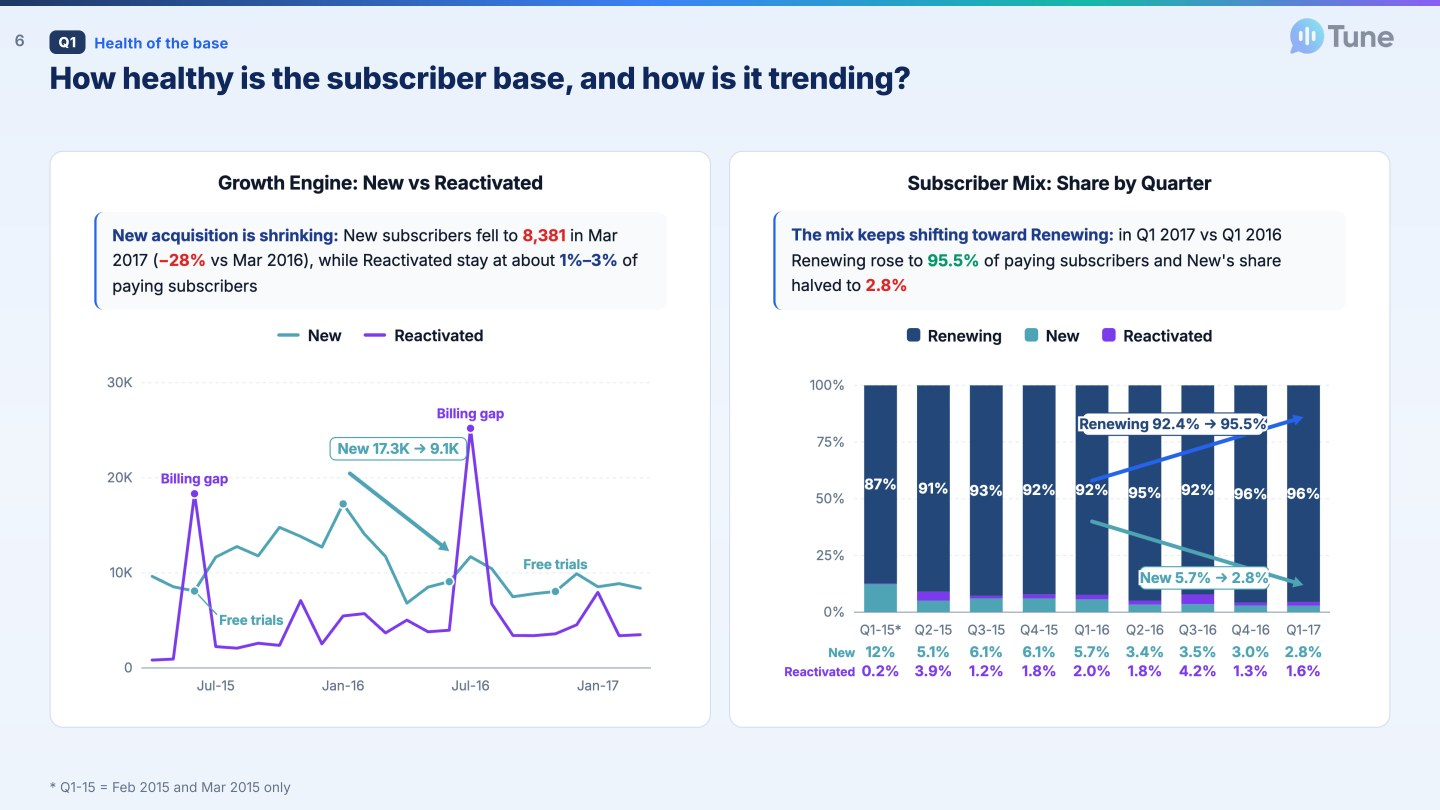
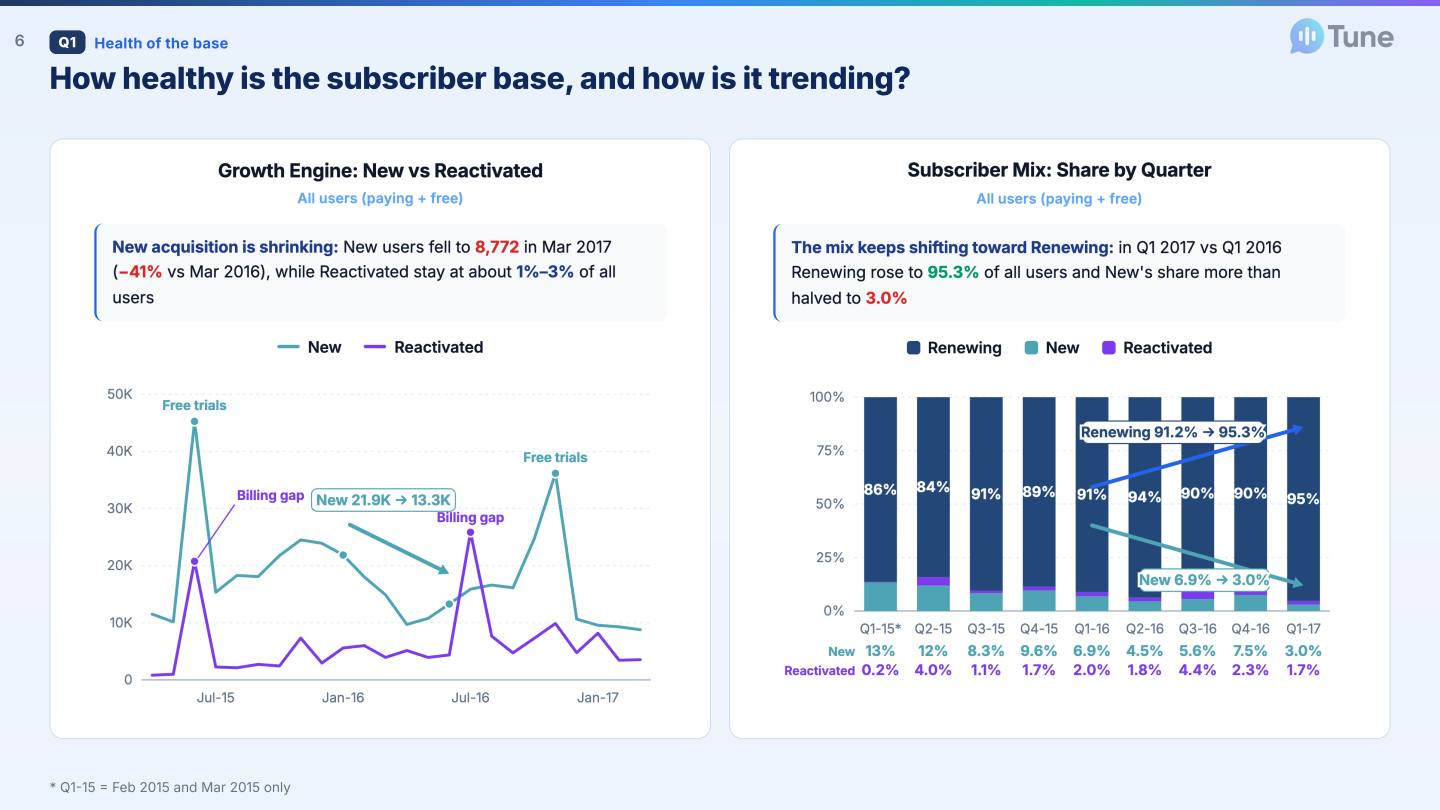
Growth Engine and Subscriber Mix count all users (paying + free); paying-only charts on 2.2 and Q1 say so under the title

diff --git a/index.html b/index.html
@@ -870,32 +870,32 @@ main{--v-rev:#e9d5ff;--v-rev-ink:#9333ea}
     </div>
 
     <div class="card v3-card">
-      <h2>Subscriber Mix: Share by Quarter</h2>
-      <p class="v3-c ok"><b>The mix keeps shifting toward Renewing:</b> Renewing was <b class="chg-good">95.5%</b> of paying subscribers in Q1 2017, up from 92.4% in Q1 2016, while New's share halved from <b class="chg-bad">5.7%</b> to <b class="chg-bad">2.8%</b></p>
+      <h2>Subscriber Mix: Share by Quarter<span class="scope-tag">All users (paying + free)</span></h2>
+      <p class="v3-c ok"><b>The mix keeps shifting toward Renewing:</b> Renewing was <b class="chg-good">95.3%</b> of all users in Q1 2017, up from 91.2% in Q1 2016, while New's share more than halved from <b class="chg-bad">6.9%</b> to <b class="chg-bad">3.0%</b></p>
       <div class="vz-lg p22-lg"><span><i style="--c:var(--p22-ren)"></i>Renewing</span><span><i style="--c:var(--p22-new)"></i>New</span><span><i style="--c:var(--p22-rea)"></i>Reactivated</span></div>
       <div class="vz" id="p22-q"></div>
-      <div class="v3-foot"><details class="coh-how fn"><summary><span class="fn-p">+</span> *Q1-15 = Feb 2015 and Mar 2015 only</summary><div class="fn-in">Share of paying subscribers in the quarter · numbers above columns: New and Reactivated, in their colors · *Q1-15 = Feb 2015 and Mar 2015 only (files start 01/01/15, so in Jan 2015 everyone is New)</div></details></div>
+      <div class="v3-foot"><details class="coh-how fn"><summary><span class="fn-p">+</span> *Q1-15 = Feb 2015 and Mar 2015 only</summary><div class="fn-in">Share of all users with access in the quarter, paying or free trial · numbers above columns: New and Reactivated, in their colors · *Q1-15 = Feb 2015 and Mar 2015 only (files start 01/01/15, so in Jan 2015 everyone is New)</div></details></div>
     </div>
 
 
     <div class="p22-two">
       <div class="card v3-card">
-        <h2>Retention Base: Total vs Renewing</h2>
+        <h2>Retention Base: Total vs Renewing<span class="scope-tag">Paying subscribers only</span></h2>
         <p class="v3-c ok"><b>Core retention scales steadily:</b> Renewing tracks Total paying up to <b class="chg-good">291,502</b> in Mar 2017 (<b class="chg-good">+21%</b> vs Mar 2016)</p>
         <div class="vz-lg p22-lg"><span><i class="ln dash" style="--c:var(--p22-tot)"></i>Total paying</span><span><i class="ln thick" style="--c:var(--p22-ren)"></i>Renewing</span></div>
         <div class="vz" id="p22-l1"></div>
       </div>
       <div class="card v3-card">
-        <h2>Growth Engine: New vs Reactivated</h2>
-        <p class="v3-c warn"><b>New acquisition is shrinking:</b> New subscribers fell to <b class="chg-bad">8,381</b> in Mar 2017 (<b class="chg-bad">−28%</b> vs Mar 2016), while Reactivated subscribers stay at about <b class="chg-flat">1%–3%</b> of paying subscribers from Jul 2015 on, except for the Jul 2016 billing-gap spike</p>
+        <h2>Growth Engine: New vs Reactivated<span class="scope-tag">All users (paying + free)</span></h2>
+        <p class="v3-c warn"><b>New acquisition is shrinking:</b> New users fell to <b class="chg-bad">8,772</b> in Mar 2017 (<b class="chg-bad">−41%</b> vs Mar 2016), while Reactivated users stay at about <b class="chg-flat">1%–3%</b> of all users from Jul 2015 on, except for the Jul 2016 billing-gap spike</p>
         <div class="vz-lg p22-lg"><span><i class="ln thick" style="--c:var(--p22-new)"></i>New</span><span><i class="ln thick" style="--c:var(--p22-rea)"></i>Reactivated</span></div>
         <div class="vz" id="p22-l2"></div>
         <p class="v3-foot">Own scale, so the small groups stay readable</p>
         <ul class="vz-flg">
-          <li><button class="flg-go" data-flag="p25-r-0415" style="color:var(--p22-rea)">⚑ Jun 2015 Billing gap</button>: 18,326 Reactivated</li>
-          <li><button class="flg-go" data-flag="p25-r-0316" style="color:var(--p22-rea)">⚑ Jul 2016 Billing gap</button>: 25,205 Reactivated</li>
-          <li><button class="flg-go" data-flag="p25-r-trial" style="color:var(--p22-new)">⚑ Jun 2015 Free-trial wave</button>: New subscribers did not rise (8,089 vs 8,543 in May 2015)</li>
-          <li><button class="flg-go" data-flag="p25-r-trial" style="color:var(--p22-new)">⚑ Nov 2016 Free-trial wave</button>: New subscribers stayed flat (8,046 vs 7,806 in Oct 2016)</li>
+          <li><button class="flg-go" data-flag="p25-r-0415" style="color:var(--p22-rea)">⚑ Jun 2015 Billing gap</button>: 20,768 Reactivated users</li>
+          <li><button class="flg-go" data-flag="p25-r-0316" style="color:var(--p22-rea)">⚑ Jul 2016 Billing gap</button>: 25,853 Reactivated users</li>
+          <li><button class="flg-go" data-flag="p25-r-trial" style="color:var(--p22-new)">⚑ Jun 2015 Free-trial wave</button>: 45,270 New users, only 8,089 of them paying</li>
+          <li><button class="flg-go" data-flag="p25-r-trial" style="color:var(--p22-new)">⚑ Nov 2016 Free-trial wave</button>: 36,173 New users, only 8,046 of them paying</li>
         </ul>
       </div>
     </div>
@@ -1442,18 +1442,20 @@ main{--v-rev:#e9d5ff;--v-rev-ink:#9333ea}
   }));
 
   /* ---------- 2.2 ---------- */
-  // quarterly mix from P2_DATA (same as mart_metrics_month); Q1-15 = 02-15 and 03-15 only (01-15 is the warm-up month)
+  // quarterly mix of ALL users with access (paying + free trial): fct_user_month is_active, is_new, is_reactivated; Q1-15 = 02-15 and 03-15 only (01-15 is the warm-up month)
+  // P22A: month -> [New users, Reactivated users] among all users with access; Renewing = active_any - New - Reactivated
+  const P22A = {"2015-01":[133585,0],"2015-02":[12173,164],"2015-03":[29812,591],"2015-04":[11516,832],"2015-05":[10157,977],"2015-06":[45270,20768],"2015-07":[15326,2264],"2015-08":[18278,2122],"2015-09":[18091,2725],"2015-10":[21766,2449],"2015-11":[24509,7313],"2015-12":[23915,2960],"2016-01":[21864,5594],"2016-02":[18004,6000],"2016-03":[14887,3939],"2016-04":[9700,5140],"2016-05":[10766,3945],"2016-06":[13278,4367],"2016-07":[15893,25853],"2016-08":[16611,7654],"2016-09":[16118,4728],"2016-10":[24697,7274],"2016-11":[36173,9890],"2016-12":[10652,4759],"2017-01":[9566,8176],"2017-02":[9288,3450],"2017-03":[8772,3543]};
   const QS = [];
   P2_DATA.filter((r) => r[0] >= "2015-02").forEach((r) => {
     const q = "Q" + Math.ceil(+r[0].slice(5, 7) / 3) + "-" + r[0].slice(2, 4) + (r[0] < "2015-04" ? "*" : "");
     let o = QS.find((x) => x.q === q); if (!o) QS.push((o = { q, p: 0, n: 0, r: 0, rn: 0, k: 0 }));
-    o.p += r[F.p]; o.n += r[F.n]; o.r += r[F.r]; o.rn += r[5]; o.k++;
+    const a = P22A[r[0]]; o.p += r[F.a]; o.n += a[0]; o.r += a[1]; o.rn += r[F.a] - a[0] - a[1]; o.k++;
   });
   const qRen = QS.map((o) => (100 * o.rn) / o.p), qNew = QS.map((o) => (100 * o.n) / o.p), qRea = QS.map((o) => (100 * o.r) / o.p);
   const pctL = (v) => (v < 10 ? v.toFixed(1) : v.toFixed(0)) + "%";
   const K22 = { ren: "var(--p22-ren)", nw: "var(--p22-new)", rea: "var(--p22-rea)", tot: "var(--p22-tot)" };
   mount("p22-q", (el) => chart(el, {
-    labels: QS.map((o) => o.q), H: 280, T: 50, gap: 0.62, stacked: true, aria: "Quarterly subscriber mix: Renewing, New and Reactivated as % of paying subscribers",
+    labels: QS.map((o) => o.q), H: 280, T: 50, gap: 0.62, stacked: true, aria: "Quarterly mix of all users, paying and free: Renewing, New and Reactivated as % of all users",
     y: { min: 0, max: 100, step: 25, fmt: (v) => v + "%" },
     series: [{ type: "bar", values: qRen, color: K22.ren, label: pctL, labelPos: "in" },
       { type: "bar", values: qNew, color: K22.nw, label: pctL, labelPos: "top", labelRow: 1, labelColor: K22.nw },
@@ -1461,9 +1463,9 @@ main{--v-rev:#e9d5ff;--v-rev-ink:#9333ea}
     arrows: [{ from: QS.findIndex((o) => o.q === "Q1-16"), to: QS.length - 1, v0: 76, v1: 84, color: "var(--v-mid)", ink: K22.ren, labelV: 63,
       label: "Renewing " + qRen[QS.findIndex((o) => o.q === "Q1-16")].toFixed(1) + "% → " + qRen[QS.length - 1].toFixed(1) + "%", short: "Renewing ↑" }],
     tip: (i) => `<b>${QS[i].q}</b>` + tipRow("Renewing", qRen[i].toFixed(1) + "%") + tipRow("New", qNew[i].toFixed(1) + "%") + tipRow("Reactivated", qRea[i].toFixed(1) + "%") +
-      `<div class="mute">${n0(QS[i].p / QS[i].k)} paying a month</div>`,
+      `<div class="mute">${n0(QS[i].p / QS[i].k)} users a month (paying + free)</div>`,
   }));
-  const M22 = rng("2015-04", "2017-03"), L22 = M22.map((r) => ml(r[0])), nw = col(M22, "n"), re = col(M22, "r"), pay = col(M22, "p"), ren = M22.map((r) => r[5]);
+  const M22 = rng("2015-04", "2017-03"), L22 = M22.map((r) => ml(r[0])), nw = M22.map((r) => P22A[r[0]][0]), re = M22.map((r) => P22A[r[0]][1]), pay = col(M22, "p"), ren = M22.map((r) => r[5]);
   const half = (lab, i, narrow) => (VZ.mnum(lab) - 1) % (narrow ? 6 : 2) === 0; // every 2 months (every 6 on phones: month names are wider)
   const kF = (v) => (v ? v / 1000 + "K" : "0");
   mount("p22-l1", (el) => chart(el, {
@@ -1474,13 +1476,13 @@ main{--v-rev:#e9d5ff;--v-rev-ink:#9333ea}
   }));
   const ix22 = (m) => L22.indexOf(m);
   mount("p22-l2", (el) => chart(el, {
-    labels: L22, xShow: half, H: 260, T: 20, aria: "New and reactivated paying subscribers per month",
-    y: { min: 0, max: 30000, step: 10000, fmt: kF },
+    labels: L22, xShow: half, H: 260, T: 20, aria: "New and reactivated users per month, paying and free",
+    y: { min: 0, max: 50000, step: 10000, fmt: kF },
     series: [{ type: "line", values: nw, color: K22.nw, w: 2.6 }, { type: "line", values: re, color: K22.rea, w: 2.6 }],
     flags: [{ i: ix22("Jun-15"), v: re[ix22("Jun-15")], dot: re[ix22("Jun-15")], text: "Jun 2015 Billing gap", short: "Jun-15 Gap", color: K22.rea, anchor: "start", to: "p25-r-0415" },
       { i: ix22("Jul-16"), v: re[ix22("Jul-16")], dot: re[ix22("Jul-16")], text: "Jul 2016 Billing gap", short: "Jul-16 Gap", color: K22.rea, anchor: "end", to: "p25-r-0316" },
       { i: ix22("Jun-15"), top: true, dot: nw[ix22("Jun-15")], text: "Jun 2015 Free-trial wave", short: "Trials", color: K22.nw, to: "p25-r-trial" },
-      { i: ix22("Nov-16"), v: 12500, dot: nw[ix22("Nov-16")], text: "Nov 2016 Free-trial wave", short: "Nov-16 Trials", color: K22.nw, anchor: "end", to: "p25-r-trial" }],
+      { i: ix22("Nov-16"), v: 43000, dot: nw[ix22("Nov-16")], text: "Nov 2016 Free-trial wave", short: "Nov-16 Trials", color: K22.nw, anchor: "end", to: "p25-r-trial" }],
     tip: (i) => `<b>${L22[i]}</b>` + tipRow("New", n0(nw[i])) + tipRow("Reactivated", n0(re[i])),
   }));
 
@@ -2962,6 +2964,7 @@ order by 1;</pre>
   .p4q-two{display:grid;grid-template-columns:repeat(2,minmax(0,1fr));grid-template-rows:repeat(5,auto);column-gap:20px;row-gap:0}
   .p4q-ch{display:grid;grid-row:span 5;grid-template-rows:subgrid;row-gap:5px;min-width:0;align-content:start}
   .p4q-ch h3{margin:4px 0 0;text-align:center;font-size:16px!important;line-height:1.3;color:var(--navy)}
+  .scope-tag{display:block;margin-top:3px;font-size:12.5px;font-weight:600;letter-spacing:.01em;color:var(--v-mid)}
   .p4q-i{margin:0;border-left:3px solid color-mix(in srgb,var(--accent) 45%,var(--line));padding:1px 0 1px 10px;font-size:13.5px;line-height:1.42;color:var(--fg);text-wrap:pretty}
   .p4q-lg{display:grid;gap:4px;justify-items:center;align-content:end;padding-top:10px}
   .p4q-lg .vz-lg{font-size:12.5px;gap:2px 16px}
@@ -3136,7 +3139,7 @@ order by 1;</pre>
       <div class="qa"><div class="qa-a"><p><b>The subscriber base is healthy, but its growth is slowing and now relies on renewals:</b></p><ul class="p4q-ul"><li><b>New subscribers are falling:</b> from a peak of <b class="chg-bad">17.3K</b> in Jan 2016 to <b class="chg-bad">8.4K</b> in Mar 2017 (−28% vs Mar 2016) &amp; since Sep 2016 fewer join each month than paying subscribers leave (8.9K vs 13.9K in Feb 2017), so <b>96.1%</b> are now Renewing subscribers (<button class="linkbtn" data-go="p2-flow">2.2 →</button>)</li><li><b>Retention is strong on Auto-renew:</b> <b class="chg-good">81.2%</b> of new Auto-renew subscribers still pay after 12 months vs <b class="chg-bad">44.6%</b> on Manual (<button class="linkbtn" data-go="p3a">3a →</button>)</li><li><b>Revenue still grows:</b> <b class="chg-good">+24%</b> in Q1 2017 vs Q1 2016, mostly from more paying subscribers (<button class="linkbtn" data-go="p2-arpu">2.4 →</button>)</li></ul></div></div>
       <div class="p4q-two">
         <div class="p4q-ch">
-          <h3>Paying Subscribers and Their Monthly Growth</h3>
+          <h3>Paying Subscribers and Their Monthly Growth<span class="scope-tag">Paying subscribers only</span></h3>
           <p class="p4q-i"><b>Paying subscribers keep growing, but more slowly:</b> <b class="chg-good">+18%</b> in Mar 2017 vs Mar 2016, as monthly growth fell from 5.6% (2015) to <b class="chg-bad">0.8%</b> (Q1 2017)</p>
           <div class="p4q-lg"><div class="vz-lg"><span><i class="ln" style="--c:var(--v-navy)"></i>Paying subscribers* (left)</span><span><i class="ln thick" style="--c:var(--v-mid)"></i>Monthly growth, yearly average (right)</span></div></div>
           <div class="vz" id="p4c1a"></div>
@@ -3152,7 +3155,7 @@ order by 1;</pre>
       </div>
       <div class="p4q-two">
         <div class="p4q-ch">
-          <h3>New Subscribers and the Renewing Share</h3>
+          <h3>New Subscribers and the Renewing Share<span class="scope-tag">Paying subscribers only</span></h3>
           <p class="p4q-i"><b>Fewer New subscribers join, so the base now relies on renewals:</b> New paying subscribers fell from a peak of <b class="chg-bad">17.3K</b> in Jan 2016 to <b class="chg-bad">8.4K</b> in Mar 2017, while the Renewing share reached <b>96.1%</b></p>
           <div class="p4q-lg"><div class="vz-lg"><span><i style="--c:var(--v-mid)"></i>New paying subscribers (left)</span><span><i class="ln" style="--c:var(--v-navy)"></i>Renewing share of paying subscribers (right)</span></div></div>
           <div class="vz" id="p4c1c"></div>
@@ -4763,9 +4766,9 @@ main{--sp-a:#1e3a8a;--sp-b:#60a5fa;--sp-c:#2563eb;--sp-d:#bfdbfe;--sp-e:#94a3b8;
     card.appendChild(alt); const box = null;
     // toggle sits under the insight, right above the legend (saves space)
     const place = (on) => { const i = on ? alt.firstElementChild : orig.find((c) => c.tagName === "P"); if (i) i.after(bar); else if (h2) h2.after(bar); else (card || box).prepend(bar); }; place(false);
-    const t0 = h2.textContent, [b0, b1, u0, u1] = bar.querySelectorAll("button"), uBox = bar.querySelector(".sp-u");
+    const t0 = h2.innerHTML, [b0, b1, u0, u1] = bar.querySelectorAll("button"), uBox = bar.querySelector(".sp-u");
     const set = (on) => { place(on); b0.setAttribute("aria-pressed", !on); b1.setAttribute("aria-pressed", on); alt.hidden = !on; if (uBox) uBox.hidden = !on;
-      orig.forEach((c) => (c.style.display = on ? "none" : "")); h2.textContent = on ? o.title : t0; };
+      orig.forEach((c) => (c.style.display = on ? "none" : "")); h2.innerHTML = on ? o.title : t0; };
     b0.onclick = () => set(false); b1.onclick = () => set(true);
     // Count / Share (%): share = the segment's % of the column total; the insight sentence and footnote switch with it
     let pct = false; const plot = () => document.getElementById(id + "-split");
@@ -4802,7 +4805,7 @@ main{--sp-a:#1e3a8a;--sp-b:#60a5fa;--sp-c:#2563eb;--sp-d:#bfdbfe;--sp-e:#94a3b8;
     let o = Q.find((x) => x.q === q); if (!o) Q.push((o = { q, k: 0, v: CH.map(() => 0) })); o.k++; CH.forEach((c, j) => (o.v[j] += SP.ch[c][i])); });
   const QV = CH.map((c, j) => Q.map((o) => o.v[j] / o.k)), QT = Q.map((o, i) => sum(QV.map((s) => s[i])));
   addSplit("p22-q", {
-    name: "New by channel", title: "New by Acquisition Channel", cls: "warn",
+    name: "New by channel", title: 'New by Acquisition Channel<span class="scope-tag">Paying subscribers only</span>', cls: "warn",
     concl: "<b>Channel 7 caused half the drop in New subscribers:</b> New count Q1 2017: <b class='chg-bad'>8,596</b> a month (Q1 2016: 14,352, <b class='chg-bad'>−40%</b>), and Channel 7 alone fell from 6,198 to <b class='chg-bad'>3,165</b>",
     legend: CH.map((c, j) => [CC[j], c]),
     foot: FN("Channels are codes, no names", "Count = average New a month in the quarter · acquisition_channel from users.csv (codes only, no names) · Other = Unknown and small channels"),
